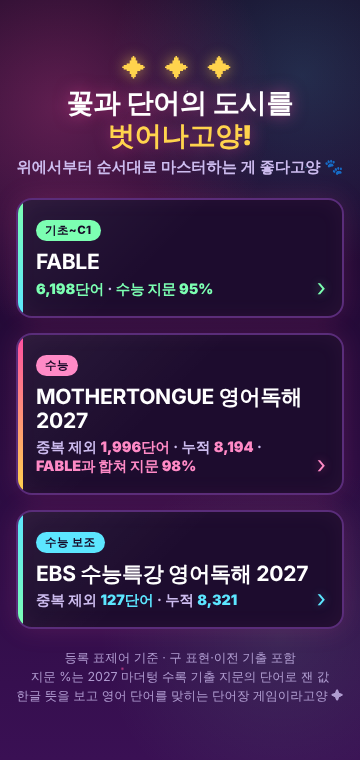
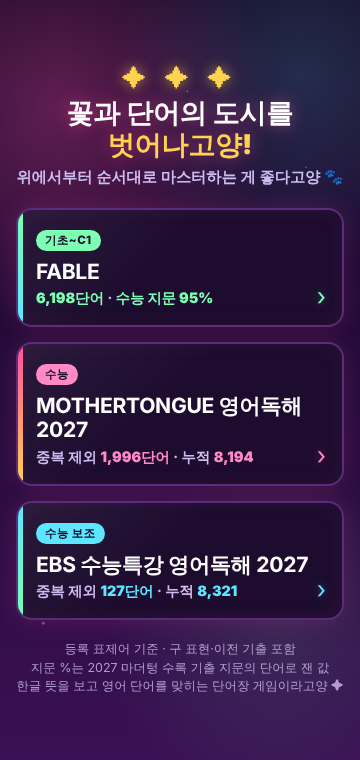
인덱스: 마더텅 카드의 'FABLE과 합쳐 지문 98%' 빼기(영신)
Claude-Session: https://claude.ai/code/session_01L3t3msS6whG3kxQTTwyKhB

Changed region(s): [[0.0306, 0.0605, 0.9778, 0.9382]]

diff --git a/index.html b/index.html
@@ -101,7 +101,7 @@ body::before{
     <a class="card ksat" href="vocagoyangksat2027.html">
       <span class="kick">수능</span>
       <h2>MOTHERTONGUE 영어독해 2027</h2>
-      <p class="meta"><!-- VOCAB_STATS:ksat:START -->중복 제외 <b>1,996단어</b> · 누적 <b>8,194</b><!-- VOCAB_STATS:ksat:END --> · <b>FABLE과 합쳐 지문 98%</b></p>
+      <p class="meta"><!-- VOCAB_STATS:ksat:START -->중복 제외 <b>1,996단어</b> · 누적 <b>8,194</b><!-- VOCAB_STATS:ksat:END --></p>
       <span class="go">›</span>
     </a>
 

diff --git a/PRINCIPLES.md b/PRINCIPLES.md
@@ -243,6 +243,7 @@
     - Claude는 BIG MOUNTAIN·LEXICAT 등 새 이름도 냈지만, 영신은 원래 이름을 살렸다.
     - 게임 안 제목은 'Fable · 기초~C1 직독직해 영단어', 인덱스 꼬리표는 '기초~C1'이다.
     - 인덱스의 % 문구('FABLE 수능 지문 95%', 마더텅 'FABLE과 합쳐 지문 98%')는 836개를 넣은 뒤 다시 재서 단다(영신 동의). 반영(26.10.13): 다시 잰 값은 FABLE 94.0%(정답 단어를 뺀 나머지 97.2%), 마더텅과 합쳐 98.4%(98.2%)다. 맨 아래에 측정 기준을 적었다.
+    - 마더텅 카드의 'FABLE과 합쳐 지문 98%'는 배포 뒤 뺐다(26.10.13 영신, 폰 화면을 보고: "마더텅 버튼에서는 fable이하는 삭제. 그렇게 해도 수능 기출 단어장이니 수능 대비인건 알 수 있으니까"). 수능 기출 단어장이라는 이름이 이미 쓰임을 말해 주고, 숫자 줄이 두 줄로 넘어가 카드가 무거워졌다. FABLE의 '수능 지문 95%'와 맨 아래 측정 기준은 그대로 둔다.
 - **빼는 것은 목표가 아니다.** (같은 날 영신: "빼기 위해서 뺄 필요는 없고 꼭 필요하지 않다면 빼는 것뿐이니", "빼는 건 중요 사항이 아니고") 마더텅·EBS 수록 여부도 기준이 아니다(영신: "마더텅이나 EBS에서 다루는지 여부보다…").
 - **빼는 것은 두 가지뿐이다.**
   - 같은 뜻의 표준어가 이미 있는 다른 꼴: 영국식(timetable → schedule), 속어·애칭(dude, babe), 줄임말(info → information), 다른 철자·변이형(e-mail, alright, daddy).

diff --git a/WORK_LOG.md b/WORK_LOG.md
@@ -1429,3 +1429,10 @@
 - 변경: `pipeline/out/lesson04.json` 2장, 원장 `sex-gender-20261013`(복원 체인 맨 위).
 - 검증(새로 실행): 검사 38개 통과, deepcheck A1·A2·A3·A5·A7 0(A6 16·A8 1은 전부터 있던 것), linecheck 390·360px 초과 0, ordercheck 앞당김 둘 이상 0, exaudit 6장(전과 같음), Chromium smoke 콘솔 오류 없음.
 - 배포: 영신 요청으로 이번 브랜치 전체(범위 구별·이름 FABLE·3000급 채우기·5000 보강·인덱스 문구·이 수정)를 main에 올렸다. aafcf99 fast-forward, Pages 38344322581 성공, 네 HTML blob SHA 일치. 기록은 [DEPLOYMENT.md](DEPLOYMENT.md).
+
+## 2026-10-13 · 인덱스 마더텅 카드에서 'FABLE과 합쳐 지문 98%' 빼기 · 배포
+
+- 요청: 영신이 배포된 인덱스를 폰으로 보고: "마더텅 버튼에서는 fable이하는 삭제. 그렇게 해도 수능 기출 단어장이니 수능 대비인건 알 수 있으니까"
+- 변경: `index.html` 마더텅 카드 숫자 줄 끝의 ' · FABLE과 합쳐 지문 98%'를 지웠다(VOCAB_STATS 생성 구간 밖, 손으로 쓴 부분). FABLE '수능 지문 95%'와 맨 아래 측정 기준은 그대로다. 이유는 PRINCIPLES 2-8에 적었다.
+- 검증(새로 실행): `index-stats.cjs --check` 통과. Chromium 390·360px에서 세 카드 숫자 줄이 모두 한 줄(전에는 마더텅이 두 줄), 콘솔 오류 없음. 게임 HTML은 바뀌지 않았다.
+- 배포: 결과는 [DEPLOYMENT.md](DEPLOYMENT.md).

diff --git a/HANDOFF.md b/HANDOFF.md
@@ -14,7 +14,7 @@
   - **Oxford 5000 보강(원장 `oxford5000-20261013`):** 836개, 923장을 26~45세트 끝 새 연습 73개에 넣었다(B2 26~35, C1 36~45).
     - 하위 에이전트 15명이 초안을 쓰고 Claude가 전수 검토해 46곳을 고쳤다. 넣은 뒤 5장을 더 고쳤다.
     - 조명 문법 18항목은 세트마다 2장 이상 실었다.
-  - **인덱스 문구:** FABLE '수능 지문 95%', 마더텅 'FABLE과 합쳐 지문 98%', 맨 아래에 측정 기준.
+  - **인덱스 문구:** FABLE '수능 지문 95%', 맨 아래에 측정 기준. 마더텅 카드의 'FABLE과 합쳐 지문 98%'는 배포 뒤 영신 요청으로 뺐다(아래 배포 항목).
     - 2027 마더텅 수록 기출 지문 발췌 41,309단어로 잰 값: FABLE 94.0%(정답 단어를 뺀 나머지 97.2%), 마더텅까지 98.4%(98.2%).
   - **sex 해설(원장 `sex-gender-20261013`, 영신 제안):** ①의 gender 대비를 gender 카드와 같은 말로 맞췄다. ②에는 "gender로 바꿔 쓸 수 없다"와 sex education을 넣었다.
 - **수:** FABLE 8,497장, 표제어 6,198개, 화면 연습 780개.
